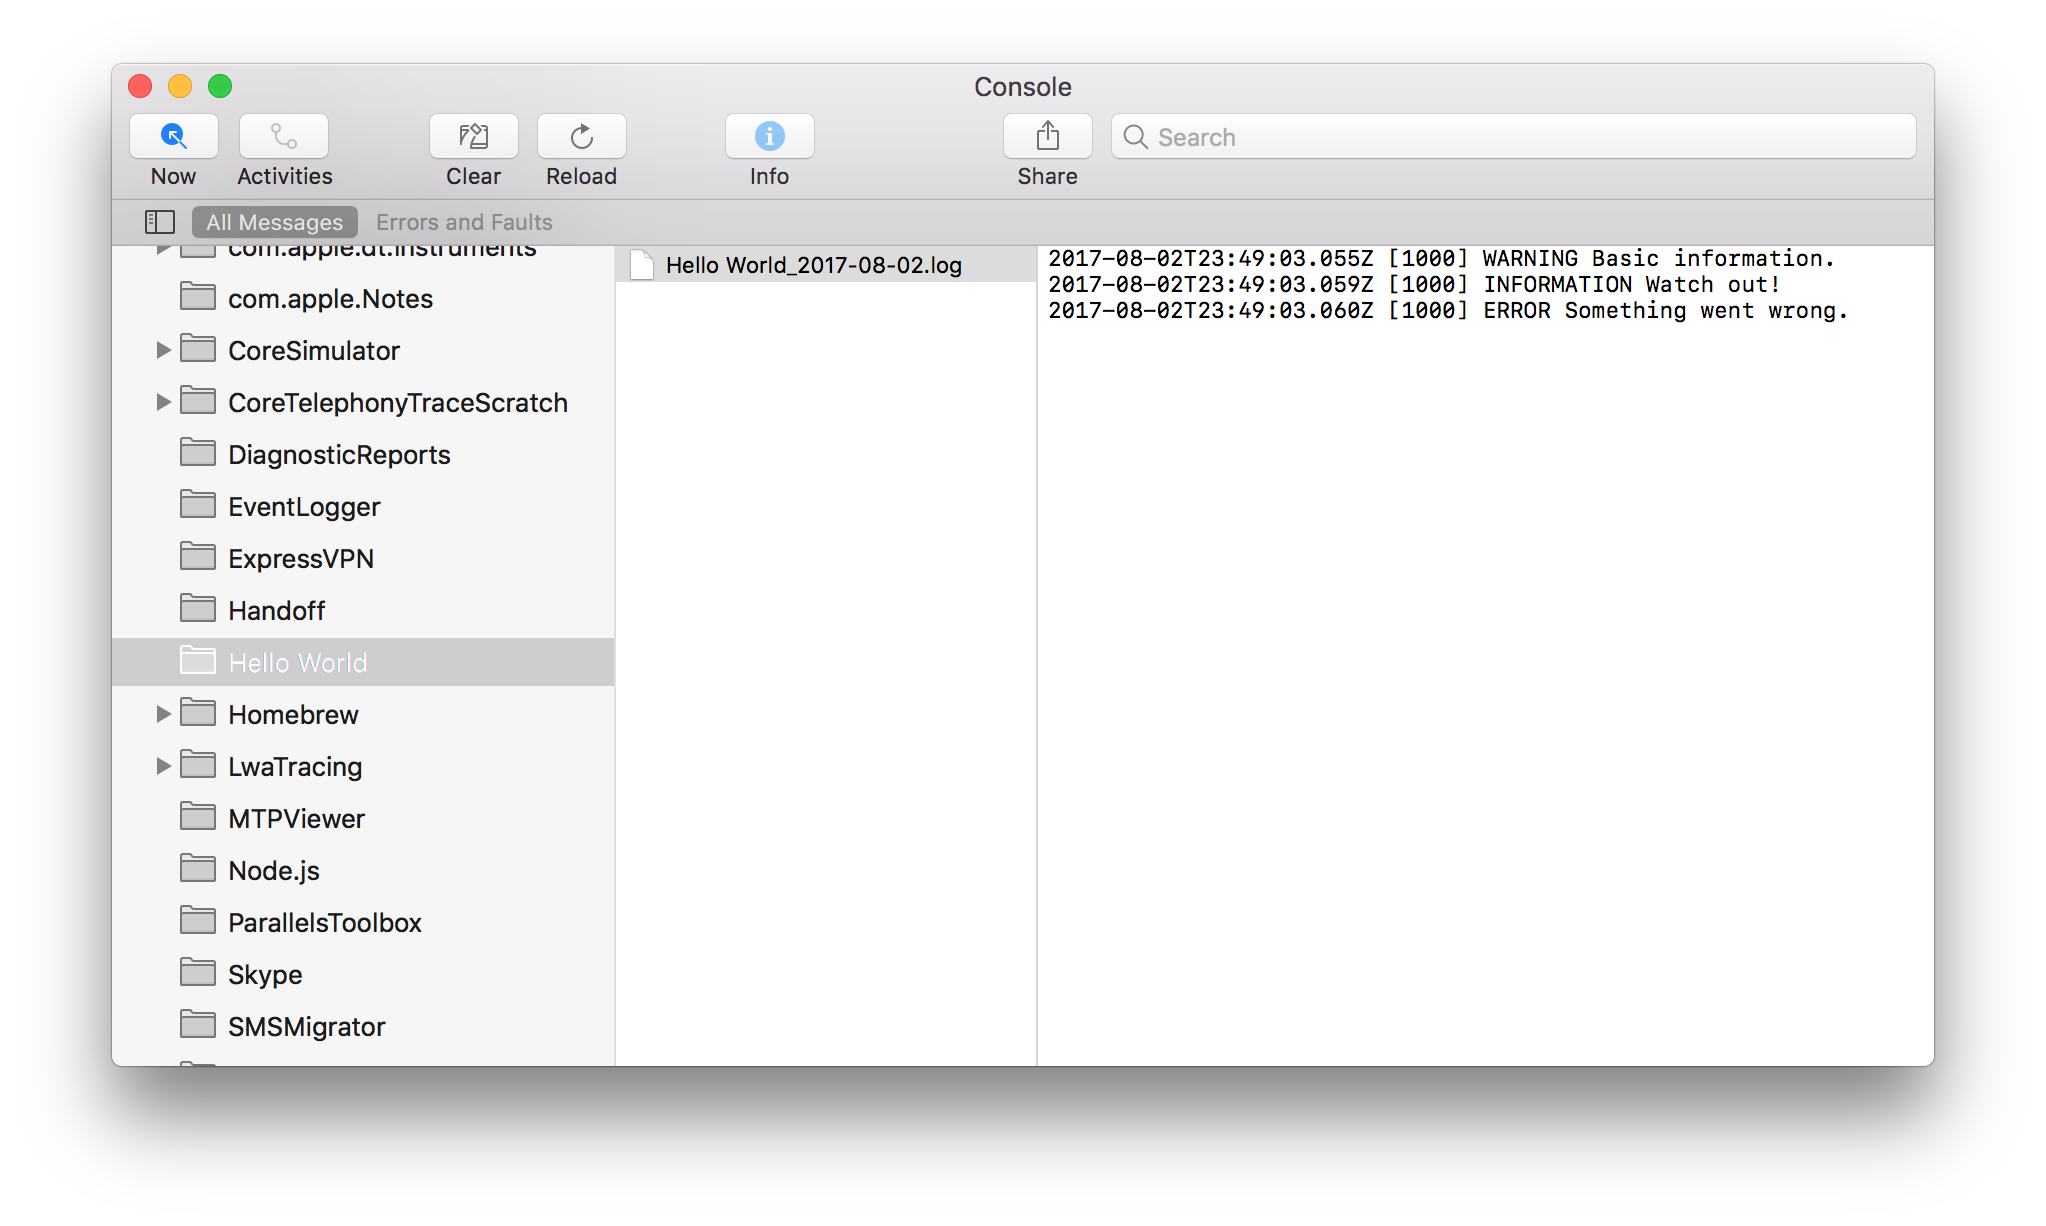
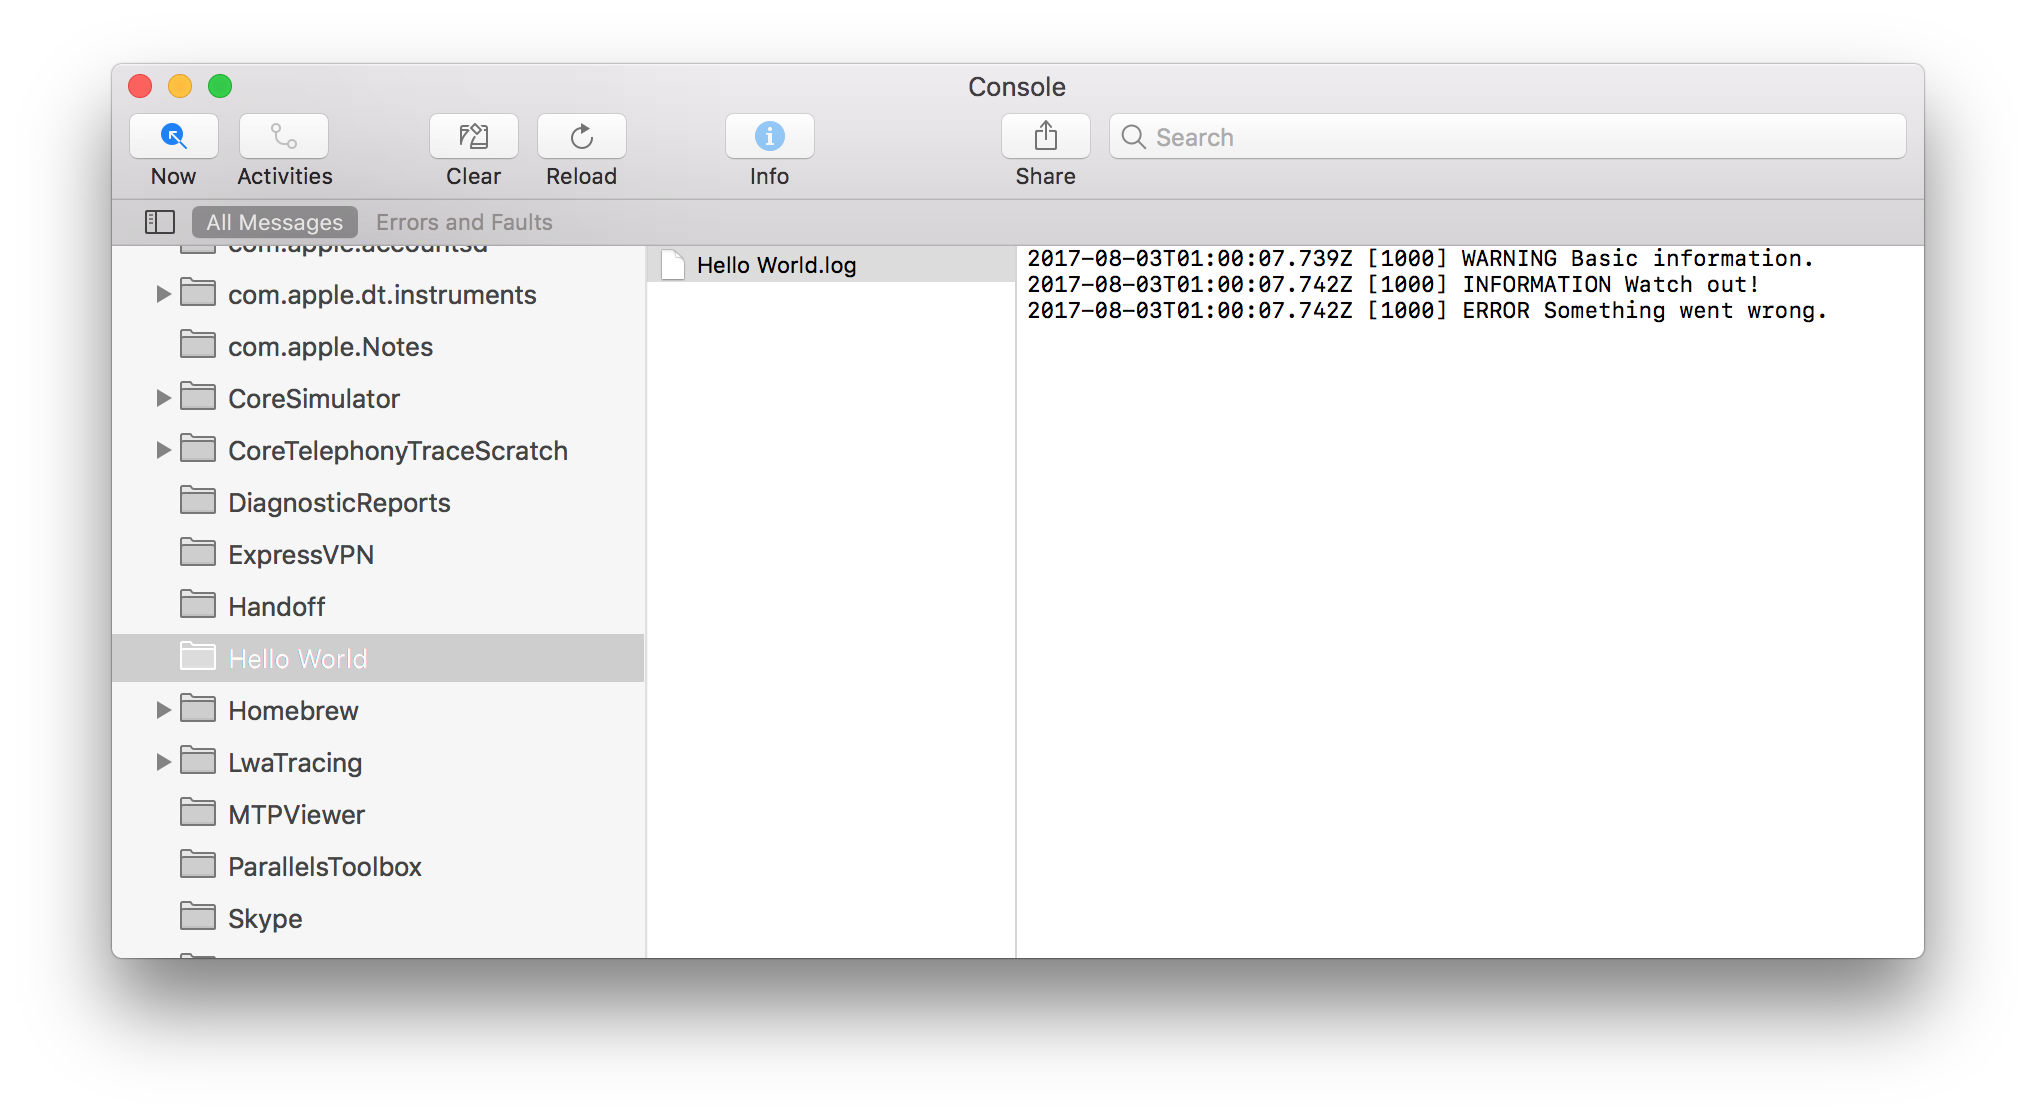
Implement Linxu Event Logger

Changed region(s): [[0.0309, 0.0608, 0.9592, 0.8819], [0.3713, 0.0912, 0.4023, 0.1825]]

diff --git a/lib/darwin.js b/lib/darwin.js
@@ -1,29 +1,36 @@
-var fs = require('fs')
+var fs = require('fs-extra')
 var os = require('os')
 var path = require('path')
 var mkdirp = require('mkdirp')
-var moment = require('moment')
-
-var EVENT_TYPES = ['APPLICATION', 'SYSTEM']
-var MESSAGE_TYPES = ['ERROR', 'WARNING', 'INFORMATION', 'SUCCESSAUDIT', 'FAILUREAUDIT']
+var common = require('./common')
+var EVENT_TYPES = common.EVENT_TYPES
+var MESSAGE_TYPES = common.MESSAGE_TYPES
 
 /**
  * EventLogger Constructor
  *
  * @param {Object|string} [config={}] Configuration
- * @param {string} [config.source='Node.js'] Source
+ * @param {string} [config.source='NodeJS'] Source
  * @param {string} [config.eventLog='APPLICATION'] Event Log
- * @param {string} [config.logPath='~/Library/Logs/Node.js'] Log Path
+ * @param {string} [config.logPath='~/Library/Logs/NodeJS'] Log Path
  */
 function EventLogger (config) {
-  config = config || {}
   if (typeof config === 'string') config = {source: config}
-  var eventLog = config.eventLog ? config.eventLog.toUpperCase() : 'APPLICATION'
-  this.source = config.source || 'Node.js'
-  this.eventLog = EVENT_TYPES.indexOf(eventLog) >= 0 ? eventLog : 'APPLICATION'
-  this.logPath = config.logPath || path.join(os.homedir(), 'Library', 'Logs', this.source)
-  this.logPath = this.logPath.replace(/~/, os.homedir())
-  mkdirp.sync(this.logPath)
+  config = config || {}
+
+  // Handle source
+  var DEFAULT_SOURCE = 'NodeJS'
+  this.source = config.source || DEFAULT_SOURCE
+
+  // Handle eventLog
+  var DEFAULT_EVENT_LOG = 'APPLICATION'
+  var eventLog = config.eventLog ? config.eventLog.toUpperCase() : DEFAULT_EVENT_LOG
+  this.eventLog = EVENT_TYPES.indexOf(eventLog) >= 0 ? eventLog : DEFAULT_EVENT_LOG
+
+  // Handle logPath
+  var DEFAULT_LOG_PATH = path.join(os.homedir(), 'Library', 'Logs', this.source)
+  var logPath = config.logPath || DEFAULT_LOG_PATH
+  this.logPath = logPath.replace(/~/, os.homedir())
 }
 
 /**
@@ -35,6 +42,7 @@ function EventLogger (config) {
  * @param {Function} [callback] Callback
  * @example
  * //= 2016-03-15T23:25:23Z [6419] INFO file-descriptors (nofiles) new hard limit is -1, new soft limit is 1024
+ * //= 2017-08-01 00:35:36 status unpacked nodejs:amd64 4.8.4-2nodesource1~xenial1
  */
 EventLogger.prototype.write = function (messageType, message, code, callback) {
   // Handle Code
@@ -46,12 +54,16 @@ EventLogger.prototype.write = function (messageType, message, code, callback) {
   messageType = MESSAGE_TYPES.indexOf(messageType) >= 0 ? messageType : 'INFORMATION'
 
   // Handle Dates
-  var time = moment().toISOString()
-  var date = moment().format('YYYY-MM-DD')
+  var time = new Date().toISOString()
 
   // Save Log
-  var outputPath = path.join(this.logPath, this.source + '_' + date + '.log')
+  var outputPath = path.join(this.logPath, this.source + '.log')
   var outputMessage = ''
+
+  // Create Folders if do not exist
+  mkdirp.sync(this.logPath)
+  mkdirp.sync(path.parse(this.logPath).dir)
+
   if (fs.existsSync(outputPath)) outputMessage += '\n'
   outputMessage += time + ' [' + code + '] ' + messageType + ' ' + message
   fs.appendFileSync(outputPath, outputMessage)

diff --git a/test.js b/test.js
@@ -1,25 +1,24 @@
-const fs = require('fs-extra')
-const os = require('os')
-const path = require('path')
-const test = require('tape')
-const moment = require('moment')
-const EventLogger = require('./')
+var fs = require('fs-extra')
+var os = require('os')
+var path = require('path')
+var test = require('tape')
+var EventLogger = require('./')
 
 switch (os.platform()) {
   case 'darwin':
     test('darwin -- default values', t => {
-      const logPath = path.join(os.homedir(), 'Library', 'Logs', 'Node.js')
-      const log = new EventLogger()
-      t.equal(log.source, 'Node.js', 'source')
+      var logPath = path.join(os.homedir(), 'Library', 'Logs', 'NodeJS')
+      var log = new EventLogger()
+      t.equal(log.source, 'NodeJS', 'source')
       t.equal(log.eventLog, 'APPLICATION', 'eventLog')
       t.equal(log.logPath, logPath, 'logPath')
       t.end()
     })
 
     test('darwin -- custom values', t => {
-      const logPath = '~/Library/Logs/Foo'
-      const log = new EventLogger({
-        logPath,
+      var logPath = '~/Library/Logs/Foo'
+      var log = new EventLogger({
+        logPath: logPath,
         source: 'Hello World',
         eventLog: 'SYSTEM'
       })
@@ -30,12 +29,51 @@ switch (os.platform()) {
     })
 
     test('darwin -- write', t => {
-      const source = 'EventLogger'
-      const date = moment().format('YYYY-MM-DD')
-      const logPath = path.join(os.homedir(), 'Library', 'Logs', source)
-      const logFilePath = path.join(logPath, `${source}_${date}.log`)
+      var source = 'Hello World'
+      var logPath = path.join(os.homedir(), 'Library', 'Logs', source)
+      var logFilePath = path.join(logPath, source + '.log')
       fs.removeSync(logPath)
-      const log = new EventLogger(source)
+      var log = new EventLogger(source)
+
+      log.warn('Basic information.')
+      log.info('Watch out!')
+      log.error('Something went wrong.')
+
+      t.equal(fs.readFileSync(logFilePath).byteLength, 173, 'saved log')
+      t.end()
+    })
+    break
+  case 'linux':
+    test('linux -- default values', t => {
+      var logPath = '/var/log'
+      var log = new EventLogger()
+      t.equal(log.source, 'NodeJS', 'source')
+      t.equal(log.eventLog, 'APPLICATION', 'eventLog')
+      t.equal(log.logPath, logPath, 'logPath')
+      t.end()
+    })
+    test('linux -- custom values', t => {
+      var logPath = '/var/local/log'
+      var log = new EventLogger({
+        logPath: logPath,
+        source: 'Hello World',
+        eventLog: 'SYSTEM'
+      })
+      t.equal(log.source, 'Hello World', 'source')
+      t.equal(log.eventLog, 'SYSTEM', 'eventLog')
+      t.equal(log.logPath, logPath, 'logPath')
+      t.end()
+    })
+    test('linux -- write', t => {
+      var source = 'Hello World'
+      var logPath = '/var/log/'
+      var logFilePath = logPath + source + '.log'
+      fs.removeSync(logFilePath)
+
+      var log = new EventLogger({
+        source: source,
+        logPath: logPath
+      })
 
       log.warn('Basic information.')
       log.info('Watch out!')

diff --git a/lib/win32.js b/lib/win32.js
@@ -43,8 +43,9 @@
  */
 var wincmd = require('./binaries')
 var exec = require('child_process').exec
-var eventlogs = ['APPLICATION', 'SYSTEM']
-var validtypes = ['ERROR', 'WARNING', 'INFORMATION', 'SUCCESSAUDIT', 'FAILUREAUDIT']
+var common = require('./common')
+var EVENT_TYPES = common.EVENT_TYPES
+var MESSAGE_TYPES = common.MESSAGE_TYPES
 
 // Write a message to the log. This will create the log if it doesn't exist.
 var write = function (log, src, type, msg, id, callback) {
@@ -54,9 +55,9 @@ var write = function (log, src, type, msg, id, callback) {
   if (msg.trim().length === 0) return
 
   log = log || 'APPLICATION'
-  log = eventlogs.indexOf(log.toUpperCase()) >= 0 ? log : 'APPLICATION'
+  log = EVENT_TYPES.indexOf(log.toUpperCase()) >= 0 ? log : 'APPLICATION'
   type = (type || 'INFORMATION').trim().toUpperCase()
-  type = (validtypes.indexOf(type.trim().toUpperCase()) >= 0 ? type : 'INFORMATION').trim().toUpperCase()
+  type = (MESSAGE_TYPES.indexOf(type.trim().toUpperCase()) >= 0 ? type : 'INFORMATION').trim().toUpperCase()
   id = typeof id === 'number' ? (id > 0 ? id : 1000) : 1000
   src = (src || 'Unknown Application').trim()
 
@@ -115,7 +116,7 @@ var EventLogger = function (config) {
       },
       set: function (value) {
         if (value) {
-          this._logname = eventlogs.indexOf(value.toUpperCase()) >= 0 ? value.toUpperCase() : 'APPLICATION'
+          this._logname = EVENT_TYPES.indexOf(value.toUpperCase()) >= 0 ? value.toUpperCase() : 'APPLICATION'
         }
       }
     },

diff --git a/lib/linux.js b/lib/linux.js
@@ -1,0 +1,20 @@
+var DarwinEventLogger = require('./darwin')
+
+/**
+ * EventLogger Constructor
+ *
+ * @param {Object|string} [config={}] Configuration
+ * @param {string} [config.source='NodeJS'] Source
+ * @param {string} [config.eventLog='APPLICATION'] Event Log
+ * @param {string} [config.logPath='/var/log'] Log Path
+ */
+function EventLogger (config) {
+  if (typeof config === 'string') config = {source: config}
+  config = config || {}
+  config.logPath = config.logPath || '/var/log'
+  DarwinEventLogger.call(this, config)
+}
+
+EventLogger.prototype = Object.create(DarwinEventLogger.prototype)
+EventLogger.prototype.constructor = EventLogger
+module.exports = EventLogger

diff --git a/index.js b/index.js
@@ -1,12 +1,15 @@
-const os = require('os')
-const platform = os.platform()
+var os = require('os')
+var platform = os.platform()
 
 switch (platform) {
   case 'win32':
-    module.exports = require('./win32')
+    module.exports = require('./lib/win32')
     break
   case 'darwin':
-    module.exports = require('./darwin')
+    module.exports = require('./lib/darwin')
+    break
+  case 'linux':
+    module.exports = require('./lib/linux')
     break
   default:
     throw new Error(platform + ' not supported')

diff --git a/lib/common.js b/lib/common.js
@@ -1,0 +1,4 @@
+module.exports = {
+  EVENT_TYPES: ['APPLICATION', 'SYSTEM'],
+  MESSAGE_TYPES: ['ERROR', 'WARNING', 'INFORMATION', 'SUCCESSAUDIT', 'FAILUREAUDIT']
+}

diff --git a/README.md b/README.md
@@ -8,15 +8,18 @@
 
 [![Standard - JavaScript Style Guide](https://cdn.rawgit.com/feross/standard/master/badge.svg)](https://github.com/feross/standard)
 
-Cross platform Event Logger for NodeJS written in pure Javascript.
+Cross platform Event Logger for NodeJS written in pure ES5 Javascript.
 
 The Windows Event Logging portion is heavily inspired from [`node-windows`](https://github.com/coreybutler/node-windows).
 
 ## Operating Systems
 
 -   [ ] Windows
+> Windows Event Viewer
 -   [x] MacOSX
--   [ ] Linux
+> `/Library/Logs/<SOURCE>/<SOURCE>.log`
+-   [x] Linux
+> `/var/log/<SOURCE>.log`
 
 ## How to use
 
@@ -41,14 +44,6 @@ Using the `Console` users can capture/view application logs.
 <!-- Generated by documentation.js. Update this documentation by updating the source code. -->
 
 ### EventLogger
-
-EventLogger
-
-**Parameters**
-
--   `config`   (optional, default `{}`)
-
-#### constructor
 
 EventLogger Constructor
 

diff --git a/CHANGELOG.md b/CHANGELOG.md
@@ -1,0 +1,7 @@
+# Changelog
+
+## 0.1.0 - 2017-08-02
+
+- Convert Repo to pure ES5
+- Implement Linux Event Logger
+- Implement MacOSX Event Logger
